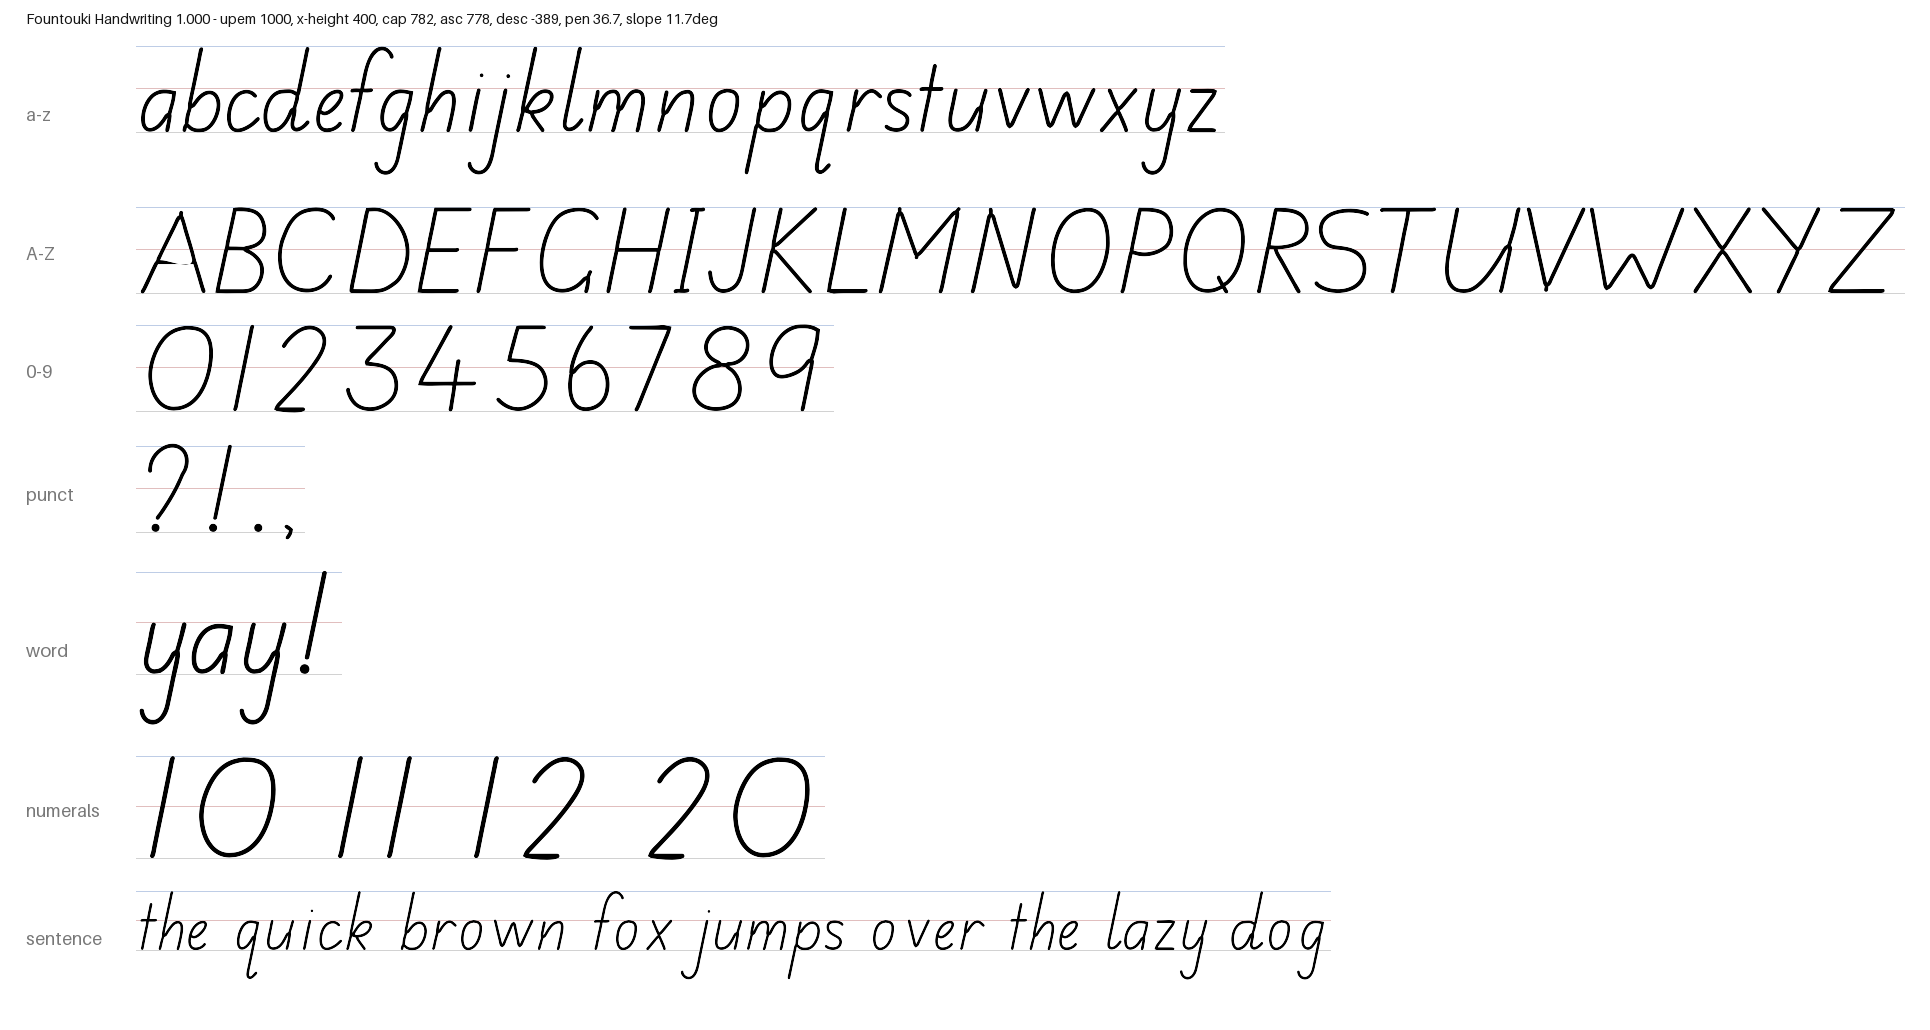
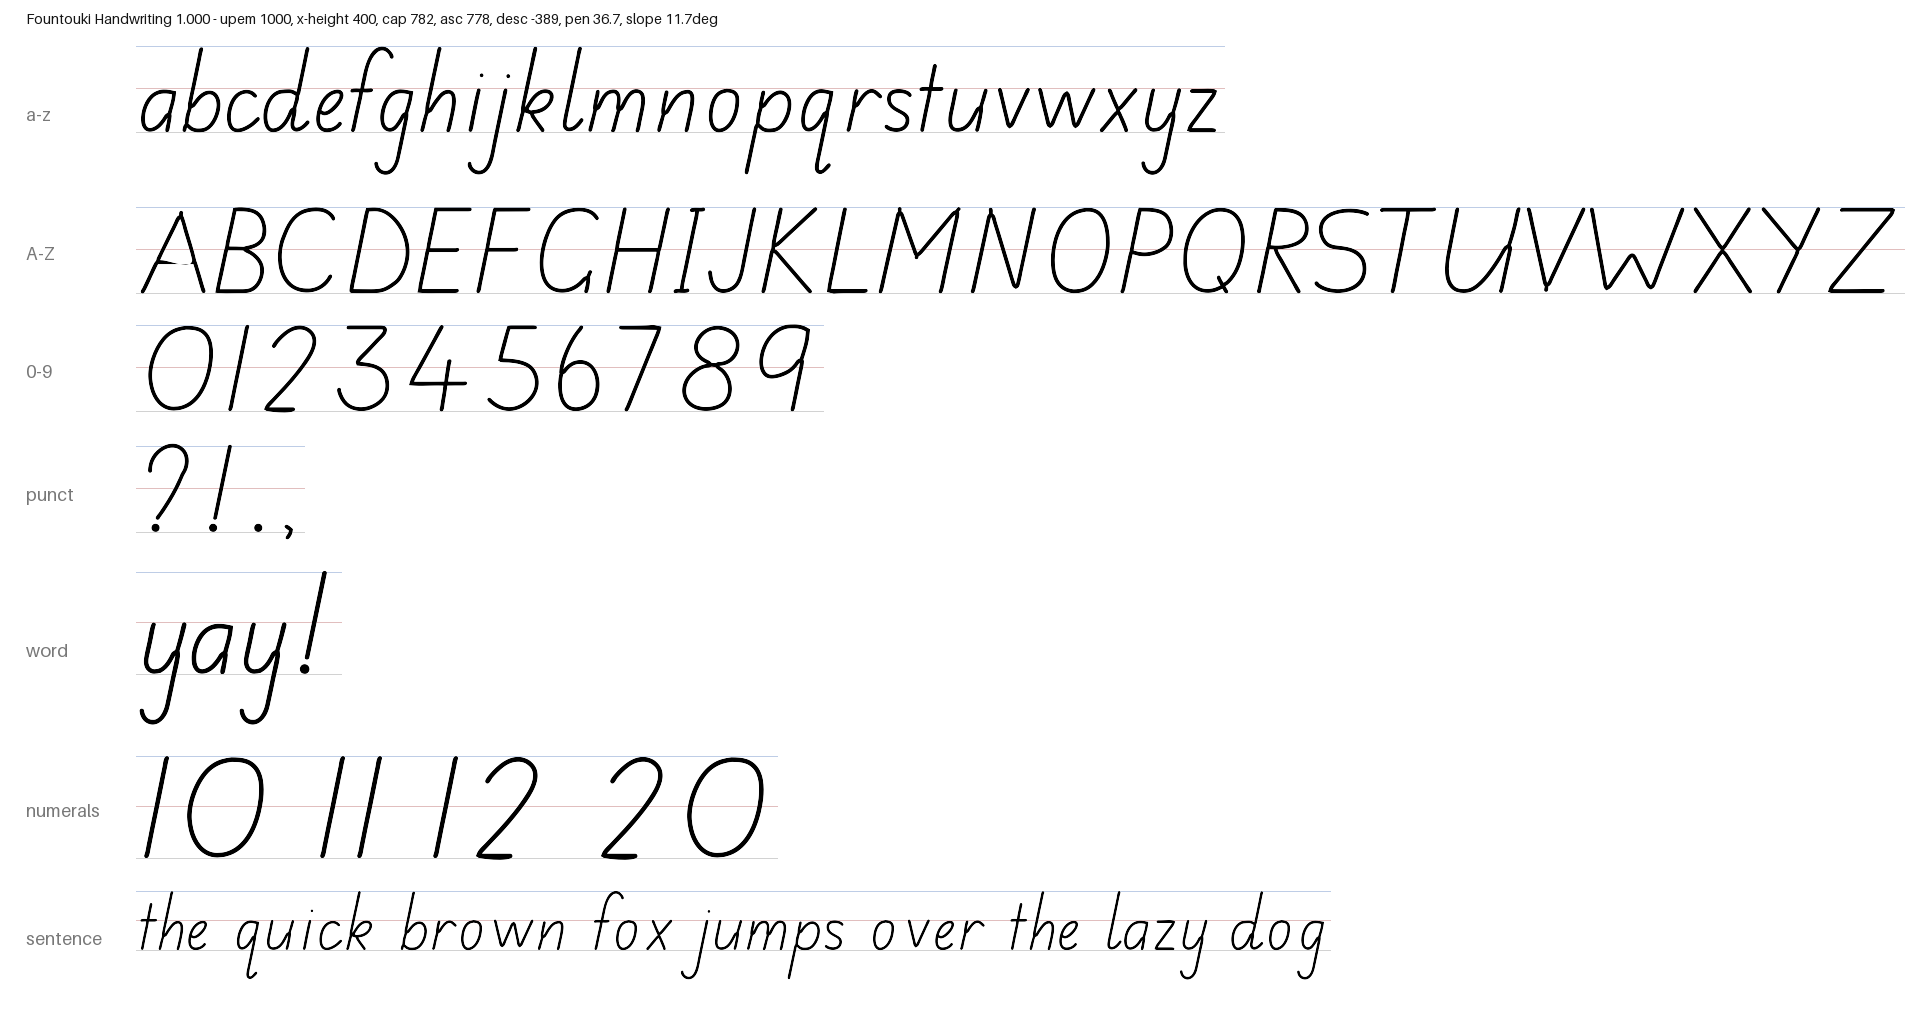
font: tighten the numeral-1 sidebearing; drop the unreachable yay! arm
- The official '1' is a bare stem (no flag, no base — the taught form), so
  at the uniform 90-unit digit bearing "11" read as two tally marks.
  Halving 1's bearing (45) pulls 10/11/12/21 into one visual number while
  keeping the letterform untouched. Both artifacts regenerated together
  (fingerprint test covers this).
- phonics: delete the Phase::Done "yay!" draw arm — unreachable since the
  garden finale became its own draw path (draw() early-returns into
  draw_done), and the finale carries the payoff visually; also simplify
  the equally-unreachable Done branch in the progress-meter fill.

Golden baselines intentionally not touched here: they are CI pixels; the
follow-up commit adopts CI renders for the scenes this changes.

Claude-Session: https://claude.ai/code/session_011VRgXuAs8zpho9LcNJ4HLs

Changed region(s): [[0.0622, 0.7146, 0.4352, 0.8388], [0.0933, 0.3107, 0.4352, 0.4039]]

diff --git a/tools/handwriting_font/build.py b/tools/handwriting_font/build.py
@@ -91,6 +91,14 @@ REF_FILES = {
 UPEM = 1000
 X_HEIGHT = 400.0          # target x-height ink top; sets the master scale k
 DIGIT_SIDE_BEARING = 90.0  # digits/!/? are set on a tight, uniform sidebearing
+
+
+def digit_bearing(ch: str) -> float:
+    """Per-glyph digit sidebearing. The official '1' is a bare stem (no flag,
+    no base), so at the uniform bearing a pair like "11" reads as two tally
+    marks; halving its bearing pulls 10/11/12/21 into one visual number
+    without touching the letterform itself."""
+    return 45.0 if ch == "1" else DIGIT_SIDE_BEARING
 SPACE_ADVANCE = 300
 FAMILY = "Fountouki Handwriting"
 SUBFAMILY = "Regular"
@@ -1079,7 +1087,7 @@ def main():
         poly = expand(strokes[ch], dots[ch], pen)
         assert poly is not None and not poly.is_empty, f"{ch!r}: empty outline"
         if ch in DIGITS + AUTHORED:
-            poly = affinity.translate(poly, xoff=DIGIT_SIDE_BEARING - poly.bounds[0])
+            poly = affinity.translate(poly, xoff=digit_bearing(ch) - poly.bounds[0])
         polys[ch] = polygons(poly, pen)
         bounds[ch] = poly.bounds
 
@@ -1106,7 +1114,7 @@ def main():
         cmap[ord(ch)] = name
         x0, _y0, x1, _y1 = bounds[ch]
         if ch in DIGITS + AUTHORED:
-            adv = int(round(x1 - x0 + 2 * DIGIT_SIDE_BEARING))
+            adv = int(round(x1 - x0 + 2 * digit_bearing(ch)))
         else:
             adv = int(round(ref_adv[ch] * k))
         metrics[name] = (adv, int(round(x0)))

diff --git a/app/src/games/phonics.rs b/app/src/games/phonics.rs
@@ -411,7 +411,8 @@ impl Scene for PhonicsScene {
 
         // Rainbow progress meter: a pale ghost of all 7 bands (so the goal is
         // visible from zero stars), filled over in color star by star.
-        let filled = if self.phase == Phase::Done { GOAL } else { self.stars };
+        // (Done never reaches this path — it early-returns into draw_done.)
+        let filled = self.stars;
         draw::rainbow_ghost(p.rb_cx, p.rb_horizon, p.rb_scale, p.rb_stroke, palette::BG);
         draw::rainbow(p.rb_cx, p.rb_horizon, p.rb_scale, p.rb_stroke, filled as usize);
 
@@ -488,16 +489,9 @@ impl Scene for PhonicsScene {
                 draw::circle_btn(p.advance.0.x, p.advance.0.y, p.advance.1, palette::ACCENT);
                 draw::mark_arrow(p.advance.0.x, p.advance.0.y, p.advance.1, palette::WHITE);
             }
-            Phase::Done => {
-                text::draw_centered(
-                    "yay!",
-                    cx,
-                    p.advance.0.y,
-                    (p.card.h * 0.16) as u16,
-                    &ctx.fonts.handwriting,
-                    palette::OK_STRONG,
-                );
-            }
+            // Done never reaches this draw path — the phase early-returns into
+            // draw_done (the garden finale), which carries the payoff visually.
+            Phase::Done => {}
         }
 
         self.confetti.draw();

diff --git a/core/src/tracing_data.rs b/core/src/tracing_data.rs
@@ -2,7 +2,7 @@
 // Pen-stroke centerlines for Fountouki Handwriting, in font units (y up, origin at
 // the pen position on the baseline). Stroke order and direction follow
 // the Tasmanian handwriting charts (tools/handwriting_font/*.png).
-// source font fnv1a64 = 0x5ee9a303b38332d3
+// source font fnv1a64 = 0x6dfc9e01d1fab86c
 use crate::tracing::GlyphTrace;
 
 pub const UPEM: f32 = 1000.0;
@@ -14,7 +14,7 @@ pub const DESCENT: f32 = -387.7;
 pub const PEN_WIDTH: f32 = 36.7;
 /// FNV-1a-64 of the handwriting.ttf these traces were baked
 /// from; a mismatch means the data is stale.
-pub const SOURCE_FONT_FNV1A64: u64 = 0x5ee9a303b38332d3;
+pub const SOURCE_FONT_FNV1A64: u64 = 0x6dfc9e01d1fab86c;
 
 pub static GLYPHS: [GlyphTrace; 26] = [
     GlyphTrace {
